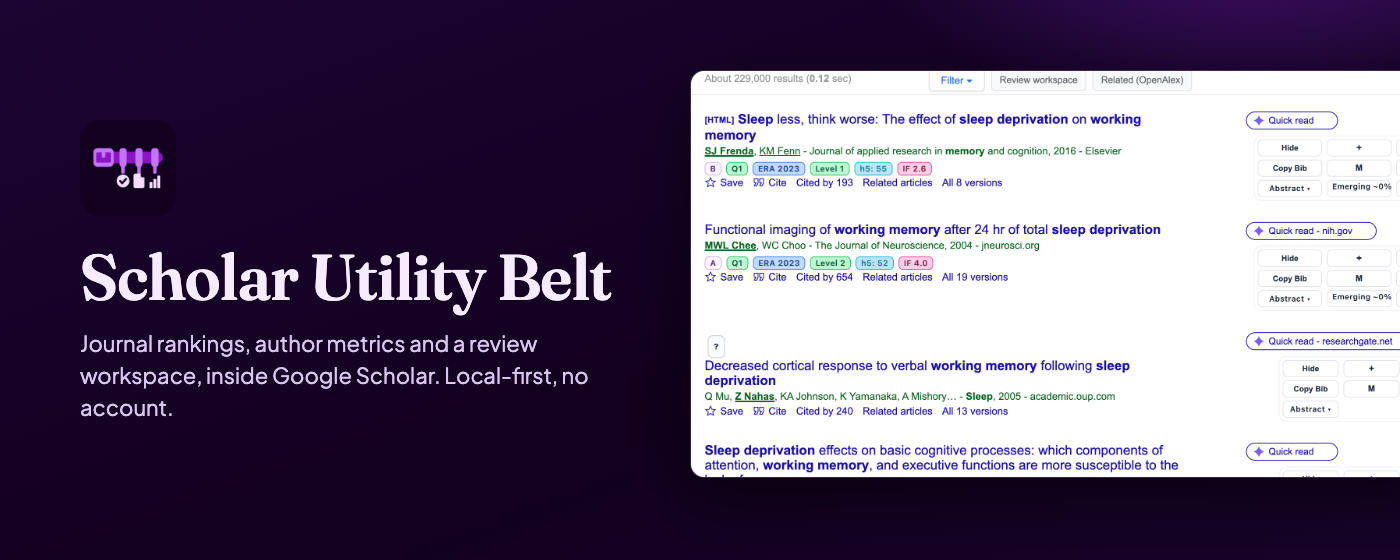
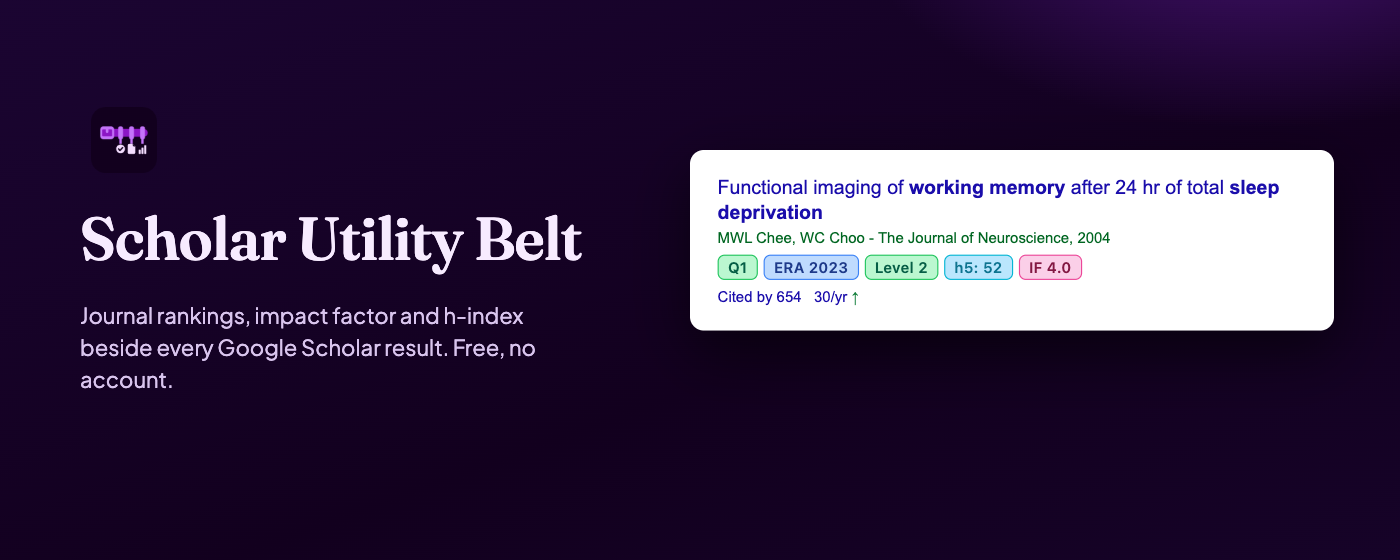
Store listing refresh: search tile shows a real result with badges, library screenshot, short description leads with rankings and h-index, add the YouTube tour

Changed region(s): [[0.4914, 0.1214, 1.0, 0.8804], [0.0614, 0.3643, 0.43, 0.7589], [0.0614, 0.2125, 0.1229, 0.3339]]

diff --git a/store-assets/STORE_LISTING.md b/store-assets/STORE_LISTING.md
@@ -6,50 +6,56 @@ Scholar Utility Belt for Google Scholar
 (The store reads this from the manifest `name`. `short_name`, "Scholar Utility Belt", is what Chrome shows where space is short.)
 
 ## Short Description (132 char max)
-Journal rankings, citation analytics and author metrics on Google Scholar. Free to use, and your data stays on your computer.
+See journal rankings, impact factor and quartiles beside every Google Scholar result, plus h-index on profiles. Free, no account.
 
 ## Detailed Description
 
-Scholar Utility Belt adds journal quality badges, citation analytics, author metrics, advisor–student genealogy trees, and research trend tracking directly to Google Scholar — no extra tabs, no manual lookups.
+Scholar Utility Belt puts journal rankings, impact factor and quartiles next to every Google Scholar result, and adds the h-index and other author metrics to every Scholar profile. It is free, needs no account, and the ranking lists ship with the extension, so the badges themselves need no network request.
 
-★ JOURNAL QUALITY BADGES
+More than 1,400 researchers use it every week. It is open source.
+
+FREE FOR EVERYONE
+
+JOURNAL QUALITY BADGES
 See journal quality as color-coded badges, taken from established ranking lists for business, computing and other fields, plus quartile rankings, on every search result and author profile page. Instantly identify top-tier publications without leaving Scholar.
 
-★ YOUR OWN JOURNAL LIST
-Upload a CSV of journals and conferences with your own tier labels, such as a department's A, B and C list. Matching venues get a badge with your label next to the built-in ones. The file is read in your browser and stays there.
-
-★ CITATION VELOCITY & ANALYTICS
-Each paper shows citations per year. An arrow marks papers cited faster (↑) or slower (↓) than papers of similar age on the same page.
-
-★ AUTHOR PROFILE METRICS
+AUTHOR PROFILE METRICS
 On any Scholar author page, see h-index, m-index, L-index and g-index, a self-citation rate estimated from OpenAlex, a publication quality breakdown (how many papers fall in each ranking tier) and coauthor analytics, calculated from the papers loaded on the page.
 
-★ ADVISOR–STUDENT GENEALOGY
-Trace advisor–student genealogy across generations. See who advised whom in an interactive tree view with 900,000+ researchers drawn from public genealogy projects and institutional repository data.
-
-★ QUERY TREND TRACKER
-A panel above the results, closed until you open it, lists the research methods named in the results and related OpenAlex topics marked rising (↑), flat (→) or falling (↓). OpenAlex is asked only while the panel is open.
-
-★ RETRACTION ALERTS
+RETRACTION ALERTS
 Results whose DOI matches a list built from the Retraction Watch database, bundled with the extension, get a "Potential update/retraction" badge. Check the publisher's page before relying on it.
 
-★ QUICK ACTIONS
+QUICK ACTIONS
 One-click Save to library, BibTeX export, abstract preview, DOI lookup, and code/dataset link detection (from the result's own links and DataCite) — all inline on search results.
 
-★ ARTICLE PAGES
+YOUR OWN JOURNAL LIST
+Upload a CSV of journals and conferences with your own tier labels, such as a department's A, B and C list. Matching venues get a badge with your label next to the built-in ones. The file is read in your browser and stays there.
+
+CITATION VELOCITY & ANALYTICS
+Each paper shows citations per year. An arrow marks papers cited faster (↑) or slower (↓) than papers of similar age on the same page.
+
+ARTICLE PAGES
 On a Scholar profile's article page, the venue gets the same journal badges, and you can save the paper or copy BibTeX or RIS with every author, volume, issue, pages and publisher. The citation chart gets plain numbers (average per year, peak year, last year against the years before), and a line says where the profile's owner sits among the authors. A DOI in the title link gets a copy button and the retraction check.
 
-★ DARK MODE
+ADVISOR–STUDENT GENEALOGY
+Trace advisor–student genealogy across generations. See who advised whom in an interactive tree view with 900,000+ researchers drawn from public genealogy projects and institutional repository data.
+
+QUERY TREND TRACKER
+A panel above the results, closed until you open it, lists the research methods named in the results and related OpenAlex topics marked rising (↑), flat (→) or falling (↓). OpenAlex is asked only while the panel is open.
+
+DARK MODE
 Full dark theme that matches Scholar's interface, with all badges and panels adapting automatically.
 
-★ PRO (OPTIONAL)
+PRIVACY-FIRST
+All ranking data is bundled locally — no API calls needed for quality badges. In the detailed view, which is the default, each result's DOI, arXiv or PubMed id is looked up at Crossref, OpenCitations, DataCite, Unpaywall, Semantic Scholar, arXiv, Europe PMC and NCBI, and author pages ask OpenAlex and DBLP. These requests carry the identifier or author name, never personal data, and one switch in Options turns the per-result lookups off. No tracking, no analytics, and no account for any free feature. The extension itself sends nothing to its developer: it opens a getting-started page on purplelink.llc once, when you first install it, and Chrome opens a short page there if you uninstall it, and those two visits are counted like any web page, without cookies or accounts. If you choose Pro, ExtensionPay handles the trial or payment and asks for your email. If you turn on the optional bring-your-own-key feature, the paper text you select and your question go to the AI provider you picked, using your own key, and to no one else. App Pass is off by default and contacts joinapppass.com only after you turn it on.
+
+PAID EXTRAS (OPTIONAL)
+
+PRO (OPTIONAL)
 Everything above is free. Scholar Utility Belt Pro adds tools for literature reviews and research workflows: author compare, paper idea lineage (how a paper's ideas trace back through its citations), extended bibliometrics, a narrative CV, a review workspace with reference import, risk-of-bias notes and screening agreement, a citation-graph overlay and a Publish-or-Perish report. Newer Pro tools include exports to reference managers, note apps and document formats, collection packets, watch lists, a bibliography checker and a tenure packet. Try it free for 14 days, buy it once or subscribe, or unlock it with an App Pass if you already have one. If you installed before Pro launched, the Pro features that existed then stay free for you forever.
 
-★ OPTIONAL AI FEATURES (PRO, OFF BY DEFAULT)
+OPTIONAL AI FEATURES (PRO, OFF BY DEFAULT)
 Triage cards show study design, sample and setting under a result, read from the snippet by Chrome's built-in on-device model where your Chrome offers one; a value appears only if it is in the snippet. Ask my shortlist lets you ask one question about papers you saved, using your own API key from an AI provider you choose in Options. If you use it, the titles and saved abstract or snippet text of the papers you select, plus your question, are sent to the provider you chose, only after you review the cost estimate and confirm. Each quoted sentence in the answer is checked against the saved text.
-
-★ PRIVACY-FIRST
-All ranking data is bundled locally — no API calls needed for quality badges. In the detailed view, which is the default, each result's DOI, arXiv or PubMed id is looked up at Crossref, OpenCitations, DataCite, Unpaywall, Semantic Scholar, arXiv, Europe PMC and NCBI, and author pages ask OpenAlex and DBLP. These requests carry the identifier or author name, never personal data, and one switch in Options turns the per-result lookups off. No tracking, no analytics, and no account for any free feature. The extension itself sends nothing to its developer: it opens a getting-started page on purplelink.llc once, when you first install it, and Chrome opens a short page there if you uninstall it, and those two visits are counted like any web page, without cookies or accounts. If you choose Pro, ExtensionPay handles the trial or payment and asks for your email. If you turn on the optional bring-your-own-key feature, the paper text you select and your question go to the AI provider you picked, using your own key, and to no one else. App Pass is off by default and contacts joinapppass.com only after you turn it on.
 
 RANKING SOURCES
 The badges come from ranking lists bundled with the extension, plus Google Scholar's own venue h5-index. The full list of sources and how each is used is in the README on GitHub.
@@ -77,19 +83,28 @@ English
 
 ## Files to Upload
 
-### Screenshots (1280×800, PNG), made 2026-10-16 from real captures of 1.0.2
-Delete the old five in the dashboard first, then upload these three in order:
-1. screenshot-1-1280x800.png: Journal rankings beside every Scholar result
-2. screenshot-2-1280x800.png: Author metrics on every profile (profile photo blurred)
-3. screenshot-3-1280x800.png: Add your department's journal list
+### Screenshots (1280×800, PNG)
+Upload in this order (the first one is the one the listing opens on):
+1. screenshot-1-1280x800.png: Journal rankings beside every Scholar result (2026-10-16 capture of 1.0.2)
+2. screenshot-2-1280x800.png: Author metrics on every profile (2026-10-16, profile photo blurred)
+3. screenshot-4-1280x800.png: Save papers and keep their rankings (2026-11-01, the 1.1.0 library page with five real papers saved)
+4. screenshot-3-1280x800.png: Add your department's journal list (2026-10-16)
+A fifth, retraction alerts on a results page, needs a capture from a normal Chrome window: Google Scholar answers
+an automated browser with its "unusual traffic" page, so new Scholar captures cannot be scripted.
 
 How they were made: `store-assets/source/` (capture.py captures one Chrome window and crops off the toolbar;
-compose.mjs and specs.json lay them out; tiles.mjs draws the promo tiles). The old HTML mockups
-(screenshots.html, render.mjs) are kept for reference but are no longer the source.
+compose.mjs and specs.json lay them out). The library shot came from the extension's own page in a headless Edge
+profile with every non-extension request blocked. The old HTML mockups (screenshots.html, render.mjs) are kept for
+reference but are no longer the source.
 
-### Promotional Images (new belt icon, 2026-10-16)
+### Promotional Images (2026-11-01)
+The small tile is what people see in store search, so it now shows a real Scholar result with the extension's
+badges (drawn with src/content/content.css, bold palette) instead of only the name. Made by `source/tiles2.mjs`.
 - Small tile: promo-small-440x280.png (440×280)
 - Marquee: promo-marquee-1400x560.png (1400×560)
+
+### Promo video (YouTube URL field)
+https://www.youtube.com/watch?v=L_MmXQAS1_k (45-second tour, published 2026-10-04, already on the product page)
 
 ### Icon
 - Already in manifest: icons/icon128.png (128×128)
